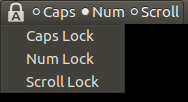
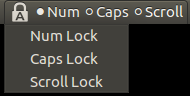
Change LED order from CNS to NCS

Changed region(s): [[0.0, 0.0, 1.0, 0.9688], [0.133, 0.5, 0.5319, 0.7188], [0.133, 0.2812, 0.5319, 0.4375]]

diff --git a/indicator-keyboard-led.py b/indicator-keyboard-led.py
@@ -37,7 +37,7 @@ gi.require_version('AppIndicator3', '0.1')
 from gi.repository import Gdk, Gtk, AppIndicator3
 
 class IndicatorKeyboardLED:
-    locks = { 'caps': 'Caps', 'num': 'Num', 'scr': 'Scroll' }
+    locks = { 'num': 'Num', 'caps': 'Caps', 'scr': 'Scroll' }
     
     def __init__(self, short=False):
         self.indicator = AppIndicator3.Indicator.new(
@@ -47,7 +47,7 @@ class IndicatorKeyboardLED:
         self.indicator.set_status(AppIndicator3.IndicatorStatus.ACTIVE)
         
         if short:
-            self.locks = { 'caps': 'C', 'num': 'N', 'scr': 'S' }
+            self.locks = { 'num': 'N', 'caps': 'C', 'scr': 'S' }
 
         keymap = Gdk.Keymap.get_default()
         keymap.connect('state-changed', self.update_indicator)
@@ -55,26 +55,26 @@ class IndicatorKeyboardLED:
 
         menu = Gtk.Menu()
         items = {
-            'caps' : Gtk.MenuItem.new_with_label('Caps Lock'),
             'num'  : Gtk.MenuItem.new_with_label('Num Lock'),
+            'caps' : Gtk.MenuItem.new_with_label('Caps Lock'),
             'scr'  : Gtk.MenuItem.new_with_label('Scroll Lock')
         }
-        menu.append(items['caps'])
         menu.append(items['num'])
+        menu.append(items['caps'])
         menu.append(items['scr'])
 
-        items['caps'].connect('activate', self.send_keypress, 'Caps_Lock')
         items['num' ].connect('activate', self.send_keypress, 'Num_Lock')
+        items['caps'].connect('activate', self.send_keypress, 'Caps_Lock')
         items['scr' ].connect('activate', self.send_keypress, 'Scroll_Lock')
 
         self.indicator.set_menu(menu)
         menu.show_all()
 
     def update_indicator(self, keymap):
-        label = '⚫' if keymap.get_caps_lock_state() else '⚪'
-        label += self.locks['caps'] + ' '
-        label += '⚫' if keymap.get_num_lock_state() else '⚪'
+        label = '⚫' if keymap.get_num_lock_state() else '⚪'
         label += self.locks['num'] + ' '
+        label += '⚫' if keymap.get_caps_lock_state() else '⚪'
+        label += self.locks['caps'] + ' '
         label += '⚫' if keymap.get_scroll_lock_state() else '⚪'
         label += self.locks['scr']
         self.indicator.set_label(label, '')
@@ -88,7 +88,7 @@ if __name__ == '__main__':
     parser = argparse.ArgumentParser(
         description='indicator-keyboard-led - simulate keyboard lock keys LED')
     parser.add_argument('-s', '--short', dest='short', action='store_true',
-        help='use short label, i.e. ⚫C ⚫N ⚫S instead of ⚫Caps ⚫Num ⚫Scroll',
+        help='use short label, i.e. ⚫N ⚫C ⚫S instead of ⚫Num ⚫Caps ⚫Scroll',
         required=False)
     args = parser.parse_args()
     
